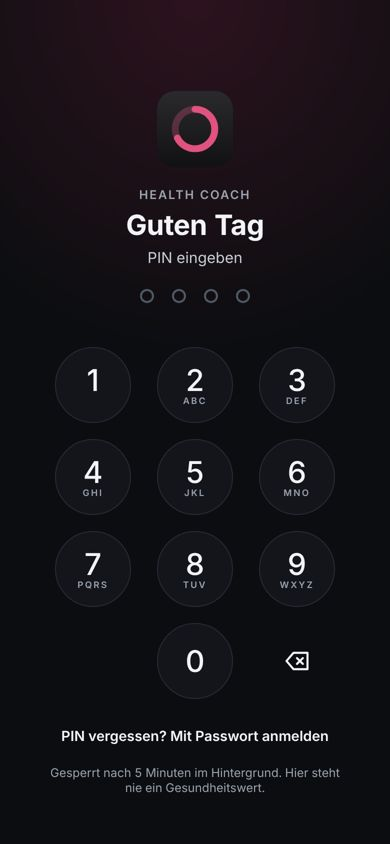
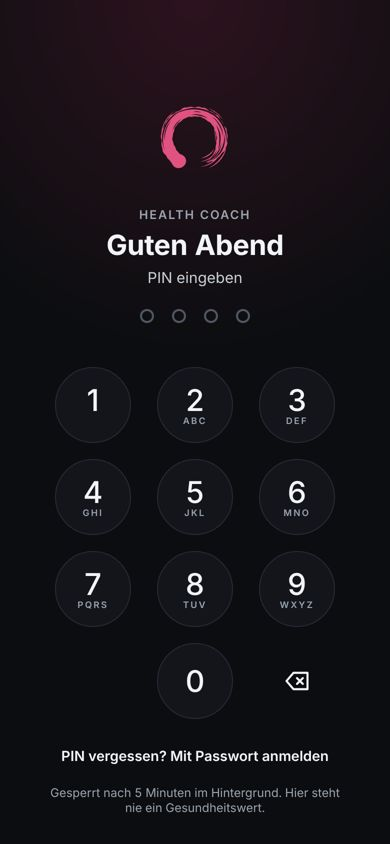
Sperrbildschirm: nur der Zen-Ring ohne Kachel
Claude-Session: https://claude.ai/code/session_014pVPWcqsBhckgU5trjg1RB

diff --git a/app/globals.css b/app/globals.css
@@ -2526,14 +2526,7 @@ body { overflow-x: clip; }
   pointer-events: none;
   background: radial-gradient(120% 60% at 50% 0%, color-mix(in srgb, var(--brand) 22%, var(--bg)) 0%, var(--bg) 70%);
 }
-.pin-icon { border-radius: 18px; }
-.pin-icon-dark { display: none; }
-@media (prefers-color-scheme: dark) {
-  :root:not([data-theme="light"]) .pin-icon-light { display: none; }
-  :root:not([data-theme="light"]) .pin-icon-dark { display: block; }
-}
-:root[data-theme="dark"] .pin-icon-light { display: none; }
-:root[data-theme="dark"] .pin-icon-dark { display: block; }
+.pin-icon { display: block; }
 .pin-brand { margin-top: 20px; }
 .pin .pin-title { margin-top: 6px; font-size: 28px; font-weight: 700; }
 .pin-sub { margin-top: 6px; font-size: 15px; color: var(--text-2); }

diff --git a/components/PinLock.tsx b/components/PinLock.tsx
@@ -130,8 +130,7 @@ export default function PinLock({ children }: { children: ReactNode }) {
   return (
     <div className="pin">
       <div className="pin-glow" aria-hidden="true" />
-      <img src="/icons/icon.svg" alt="" width={76} height={76} className="pin-icon pin-icon-light" />
-      <img src="/icons/icon-dark.svg" alt="" width={76} height={76} className="pin-icon pin-icon-dark" />
+      <img src="/icons/enso.svg" alt="" width={104} height={104} className="pin-icon" />
       <span className="eyebrow pin-brand">Health Coach</span>
       <h1 className="pin-title">{mode === "eingeben" ? greeting : title}</h1>
       <span className="pin-sub">{mode === "eingeben" ? "PIN eingeben" : sub}</span>

diff --git a/docs/design-konzept-dunkel.md b/docs/design-konzept-dunkel.md
@@ -180,6 +180,6 @@ Biologisches Alter und Alterungstempo (05), empfohlene Schlafens- und Aufstehzei
   - Je Zyklusphase, dazu Hitzewallungen am Tag danach
   - Hauttemperatur mit markierten Nächten nach der Gewohnheit
   - Nächte nach der Sauna sind auch im Verlauf der Hauttemperatur markiert.
-- **Sperrbildschirm**: App-Symbol, Gruß nach Tageszeit, Ziffernfeld wie beim iPhone mit Buchstaben, Face ID im Ziffernfeld. Nie ein Gesundheitswert.
+- **Sperrbildschirm**: nur der Zen-Ring ohne Kachel (`public/icons/enso.svg`), Gruß nach Tageszeit, Ziffernfeld wie beim iPhone mit Buchstaben, Face ID im Ziffernfeld. Nie ein Gesundheitswert.
 - **Icons** statt Kürzeln für Sportarten. Coach-Symbol: Sprechblase mit Pulslinie.
 - **App-Symbol Zen-Ring** (Ensō, mit dem Pinsel gezeichnet, trockene Pinselspuren, ausfaserndes Ende): dunkle Variante freigegeben, Beere auf Anthrazit, für hell und dunkel gleich.
